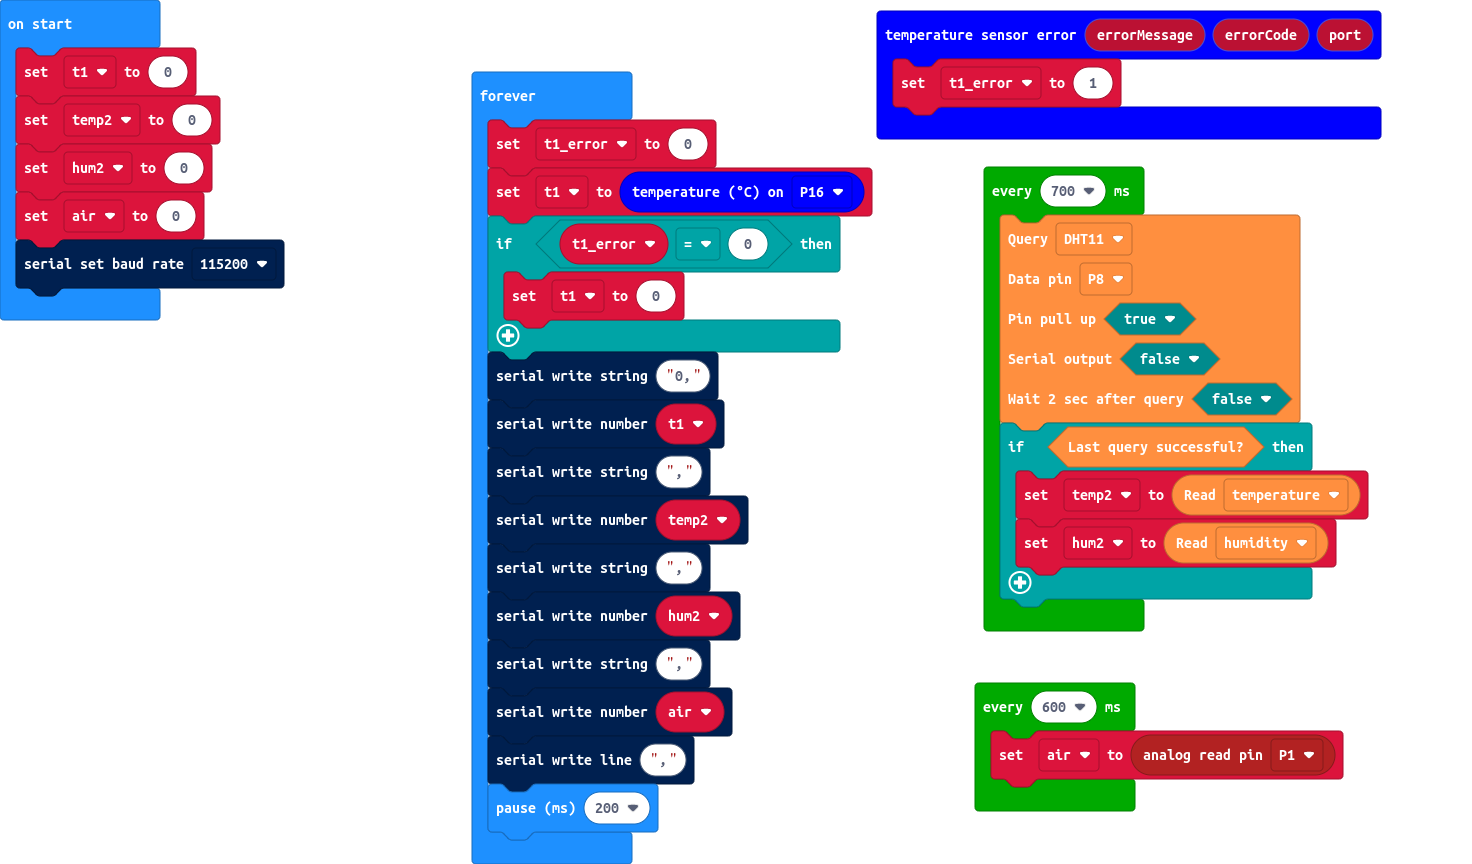
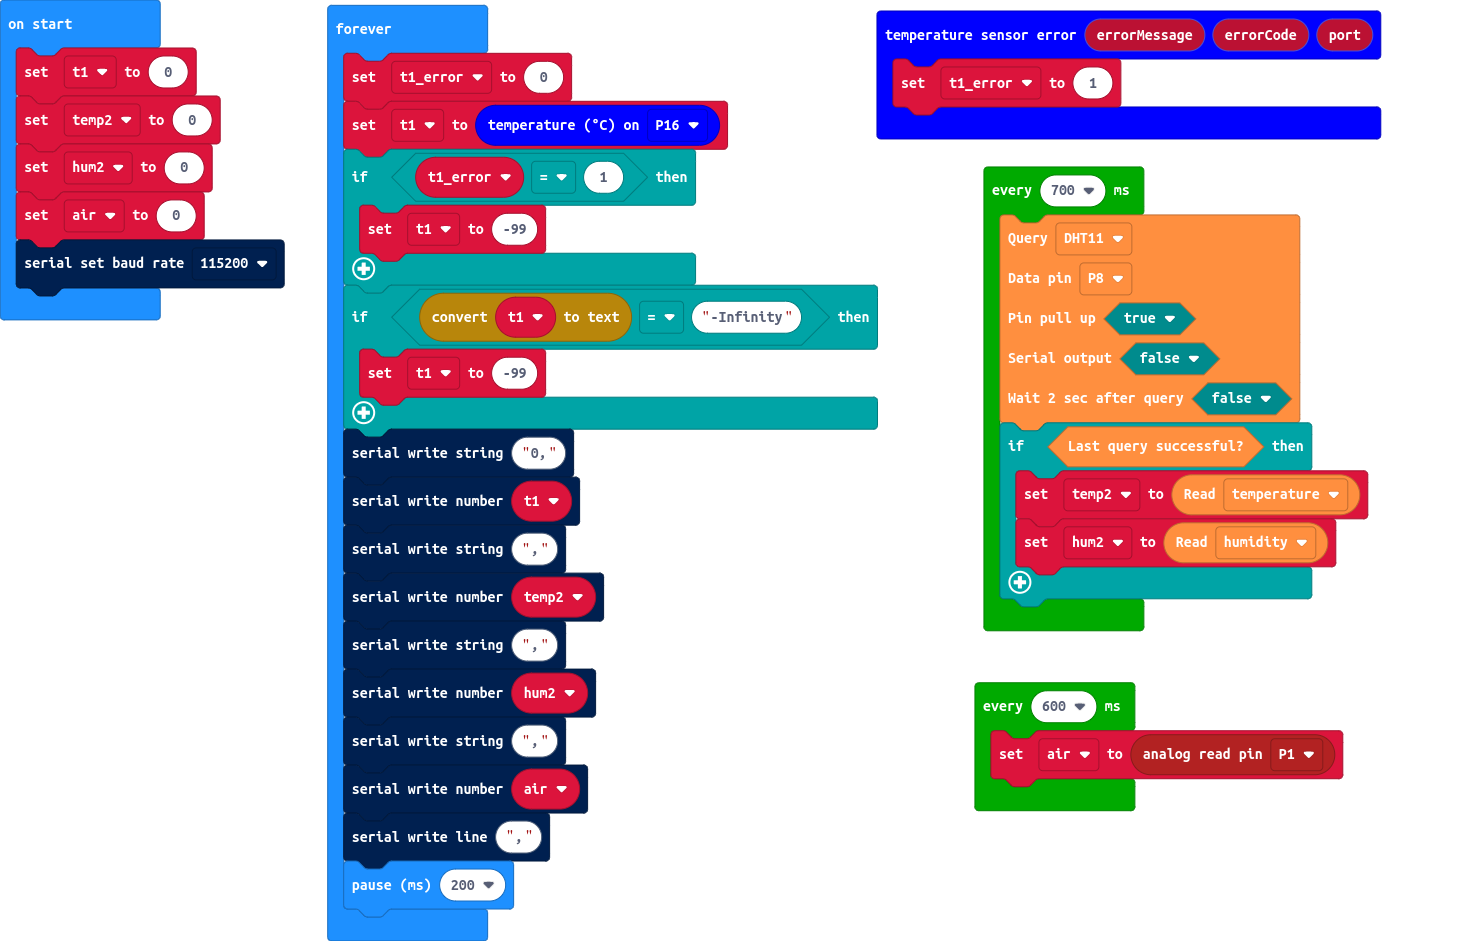
Fixed -Infinity value for temp proble (t1)

diff --git a/main.ts b/main.ts
@@ -13,8 +13,11 @@ loops.everyInterval(600, function () {
 basic.forever(function () {
     t1_error = 0
     t1 = dstemp.celsius(DigitalPin.P16)
-    if (t1_error == 0) {
-        t1 = 0
+    if (t1_error == 1) {
+        t1 = -99
+    }
+    if (convertToText(t1) == "-Infinity") {
+        t1 = -99
     }
     serial.writeString("0,")
     serial.writeNumber(t1)
